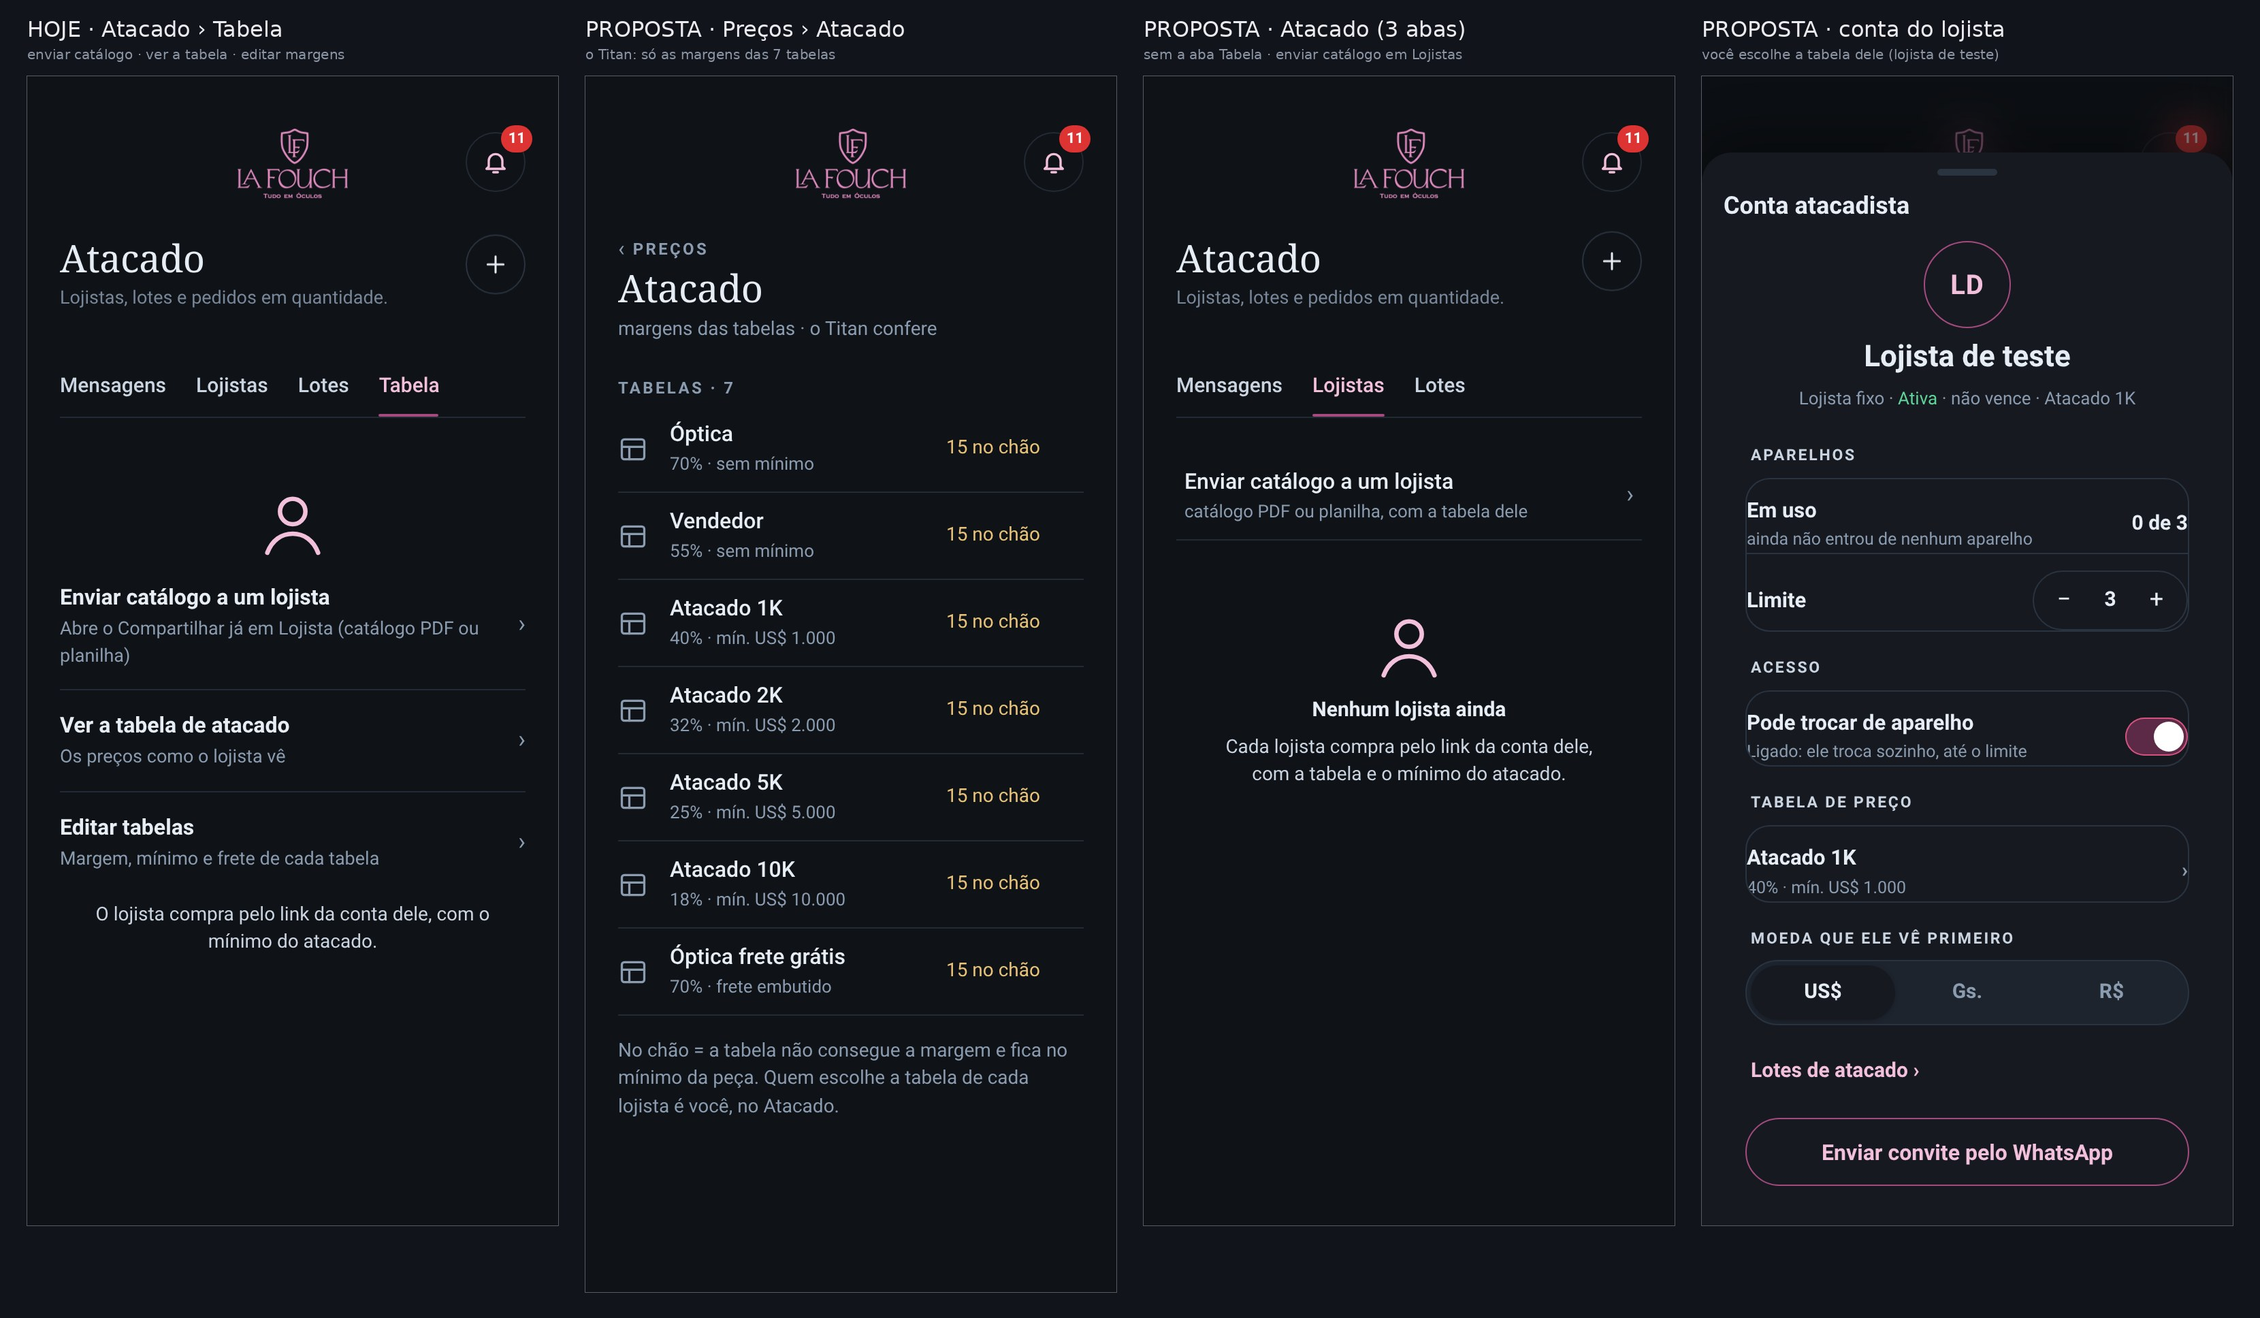
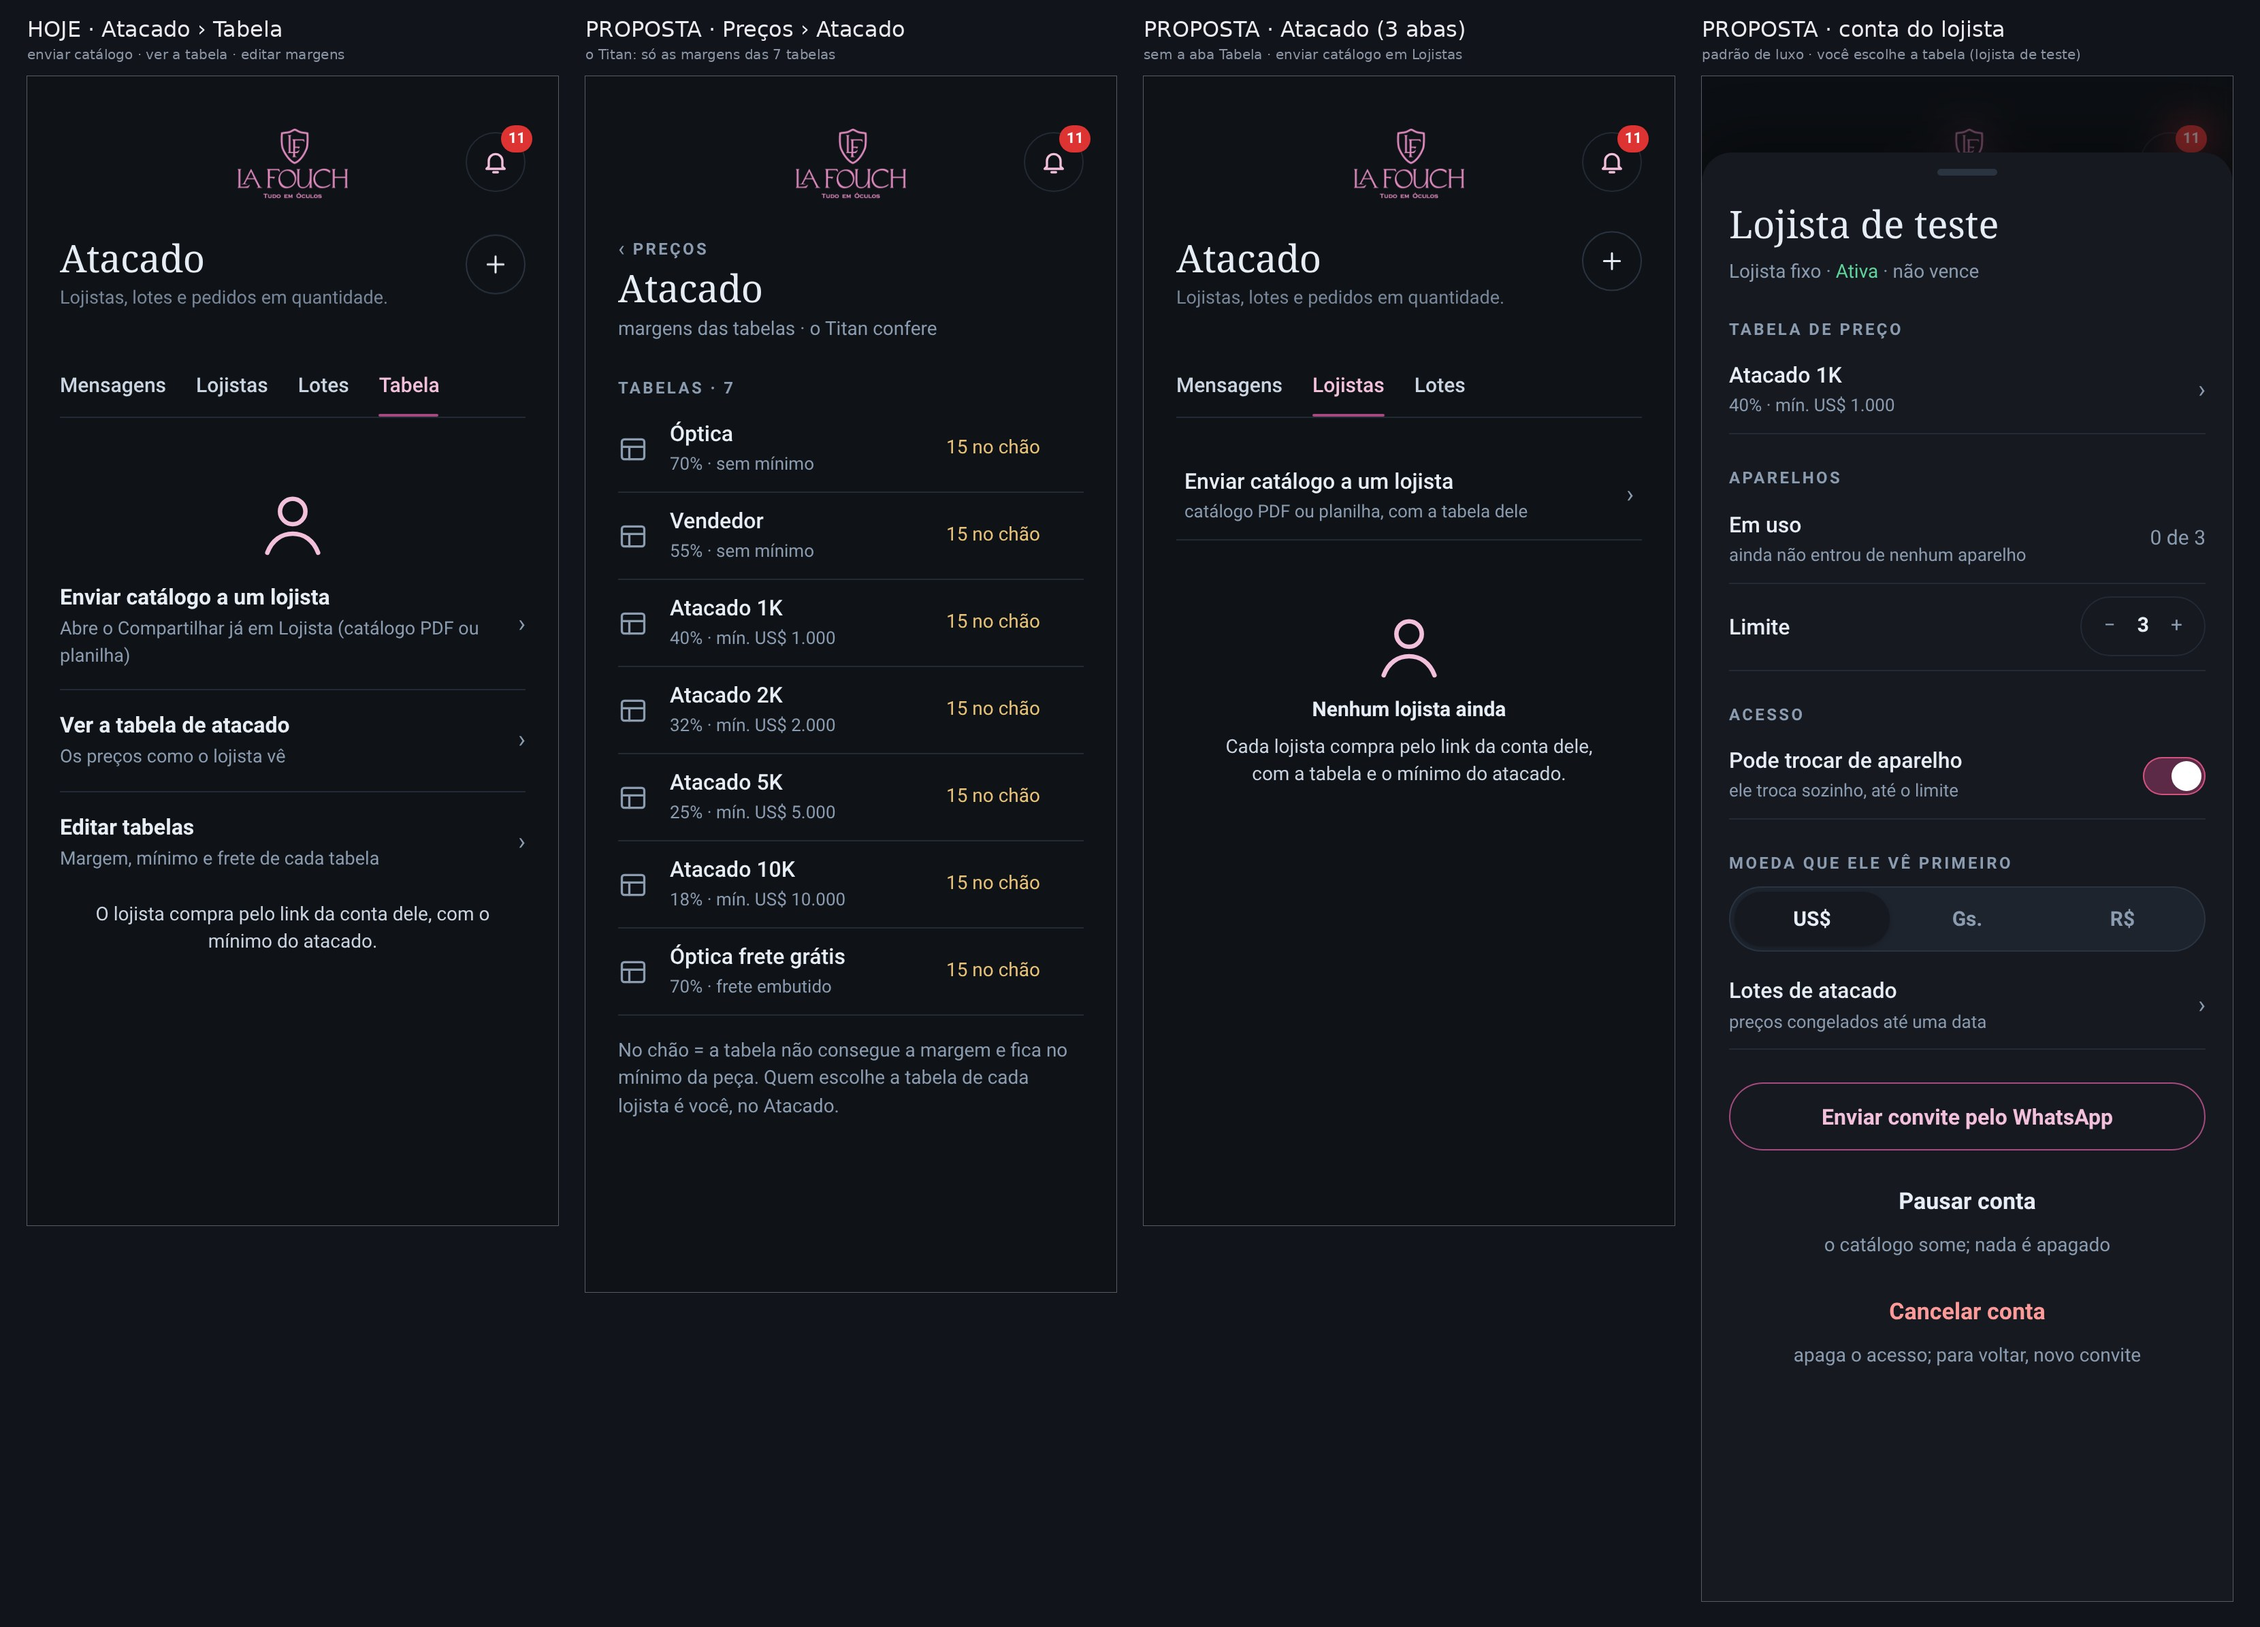
65: conta do lojista no padrão de luxo
Claude-Session: https://claude.ai/code/session_01Vj5GPRt4UBskC3w8v52h7G

diff --git a/work/s435/titan/esboco_65.py b/work/s435/titan/esboco_65.py
@@ -28,16 +28,34 @@ def atacado(pw,conta):
      f();new MutationObserver(f).observe(document.body,{childList:true,subtree:true})}""");w(500)
   if conta:
     pg.click('[data-act=ataLojAbre][data-id=t65]');w(1500)
-    pg.evaluate(r"""()=>{const f=()=>{const lb=[...document.querySelectorAll('.lb77')].find(x=>/^Moeda/.test(x.textContent));if(!lb||document.querySelector('.e65tab'))return;
-       lb.insertAdjacentHTML('beforebegin','<div class="lb77 e65tab">Tabela de preço</div><div class="gp77"><div class="rw77"><span class="tx"><b>Atacado 1K</b><small>40% · mín. US$ 1.000</small></span><span class="vl" style="color:var(--mute)">›</span></div></div>')};
-       f();new MutationObserver(f).observe(document.body,{childList:true,subtree:true})}""");w(500)
+    # conta do lojista no padrão de luxo atual (dono 22/11 13:06): um título (o nome), um eixo à esquerda, linhas finas, sem caixas
+    pg.evaluate(r"""()=>{const box=document.querySelector('.ata77');if(!box)return;const host=box.parentElement;
+      [...document.querySelectorAll('h1,h2,h3,b,div')].filter(x=>x.children.length==0&&x.textContent.trim()==='Conta atacadista').forEach(x=>x.style.display='none');
+      const L=t=>'<div style="font-size:12px;font-weight:700;letter-spacing:.14em;text-transform:uppercase;color:var(--mute);margin:24px 0 4px">'+t+'</div>';
+      const R=(t,s,v)=>'<div style="display:flex;align-items:center;gap:16px;min-height:64px;border-bottom:1px solid var(--line2)"><span style="flex:1;min-width:0"><b style="display:block;font-size:16px;font-weight:500">'+t+'</b>'+(s?'<small style="font-size:13px;color:var(--mute)">'+s+'</small>':'')+'</span>'+v+'</div>';
+      const CH='<i style="font-style:normal;color:var(--mute);font-size:18px">›</i>';
+      const ST='<span style="display:flex;align-items:center;gap:16px;border:1px solid var(--line2);border-radius:22px;height:44px;padding:0 16px"><b style="font-weight:400;color:var(--mute)">−</b><b>3</b><b style="font-weight:400;color:var(--mute)">+</b></span>';
+      host.innerHTML='<div style="padding:0 4px 24px;text-align:left">'+
+        '<h2 style="margin:0;font-family:var(--serif,Georgia,serif);font-weight:400;font-size:28px">Lojista de teste</h2>'+
+        '<div style="color:var(--mute);font-size:14px;margin-top:4px">Lojista fixo · <span style="color:var(--ok,#4fbf7f)">Ativa</span> · não vence</div>'+
+        L('Tabela de preço')+R('Atacado 1K','40% · mín. US$ 1.000',CH)+
+        L('Aparelhos')+R('Em uso','ainda não entrou de nenhum aparelho','<span style="color:var(--mute)">0 de 3</span>')+R('Limite','',ST)+
+        L('Acesso')+R('Pode trocar de aparelho','ele troca sozinho, até o limite','<button type="button" class="nfTg on" role="switch" aria-checked="true"><i></i></button>')+
+        L('Moeda que ele vê primeiro')+'<div class="sg77" style="margin-top:8px"><button type="button" class="on">US$</button><button type="button">Gs.</button><button type="button">R$</button></div>'+
+        '<div style="margin-top:8px">'+R('Lotes de atacado','preços congelados até uma data',CH)+'</div>'+
+        '<button type="button" class="go77" style="margin-top:24px">Enviar convite pelo WhatsApp</button>'+
+        '<div style="text-align:center;margin-top:16px"><button type="button" style="display:block;margin:16px auto 0;background:none;border:0;color:var(--fg);font:600 17px system-ui;min-height:44px;line-height:44px;padding:0 16px">Pausar conta</button><small style="display:block;color:var(--mute);font-size:14px">o catálogo some; nada é apagado</small><button type="button" style="display:block;margin:16px auto 0;background:none;border:0;color:var(--bad,#e5484d);font:600 17px system-ui;min-height:44px;line-height:44px;padding:0 16px">Cancelar conta</button><small style="display:block;color:var(--mute);font-size:14px">apaga o acesso; para voltar, novo convite</small></div></div>'}""");w(500)
   pg.add_style_tag(content='#mainnav,#nvBar{display:none!important}')
-  confere(pg,'Atacado '+('conta' if conta else 'lojistas'));f='/tmp/a65_%d.png'%conta;pg.screenshot(path=f,full_page=not conta);x=Image.open(f).copy();b.close();return x
+  confere(pg,'Atacado '+('conta' if conta else 'lojistas'));f='/tmp/a65_%d.png'%conta
+  if not conta:
+    pg.screenshot(path=f,full_page=True);x=Image.open(f).copy();b.close();return x
+  # a janela inteira cabe: a tela do simulador fica mais alta só nesta foto
+  pg.set_viewport_size({'width':390,'height':1120});w(700);pg.screenshot(path=f);x=Image.open(f).copy();b.close();return x
 if __name__=='__main__':
  with sync_playwright() as pw:
   h=Image.open(O+'h65_tabela.png')
   quadro('esboco_65_atacado_titan.jpg',[('HOJE · Atacado › Tabela','enviar catálogo · ver a tabela · editar margens',h.crop((0,0,780,min(h.height,1688)))),
     ('PROPOSTA · Preços › Atacado','o Titan: só as margens das 7 tabelas',titan(pw)),
     ('PROPOSTA · Atacado (3 abas)','sem a aba Tabela · enviar catálogo em Lojistas',atacado(pw,False)),
-    ('PROPOSTA · conta do lojista','você escolhe a tabela dele (lojista de teste)',atacado(pw,True))])
+    ('PROPOSTA · conta do lojista','padrão de luxo · você escolhe a tabela (lojista de teste)',atacado(pw,True))])
  for n,f in REL: print(n,len(f),f[:4])

diff --git a/docs/FALTA-APROVAR-15-11.md b/docs/FALTA-APROVAR-15-11.md
@@ -1115,3 +1115,4 @@ Não são esquecimento (estavam na lista, parados de propósito ou por ordem do 
 - 22/11 12:59 · DONO quer analisar as vantagens (setor Atacado no Titan × jeito simples) e entender como funciona o atacado. Estudo do código: TABELAS (src/96-tabelas-preco.js) — preço = custo × (1 + margem fixa da tabela) + frete, nunca abaixo do chão (trava + colchão), nunca acima do Público, de 500 em 500; 7 tabelas: Óptica 70% · Vendedor 55% · Atacado 1K 40% (mín. US$ 1.000) · 2K 32% · 5K 25% · 10K 18% · Óptica frete grátis 70% + frete. CONTAS de lojista (97s-atacado-conta.js: associada sem vencer ou convite de 3 dias, 3 aparelhos; o site mostra o catálogo com o preço da tabela + marca d'água). LOTES (97s2: peças ou filtro, contas, preço congelado em US$ até a validade). CAIXA em modo atacado (96-atacado.js: − N +, barra até a próxima tabela). As '15 peças com margem baixa' = a tabela bateu no chão. Comparação em conversa.
 - 22/11 13:01 · DONO decidiu o ATACADO: o Titan trabalha só nas MARGENS das tabelas (setor no escritório); no Atacado o dono só ESCOLHE a tabela de cada atacadista. Leitura: a aba 'Tabela' sai do Atacado (fica Mensagens · Lojistas · Lotes); a conta do lojista (e o lote, que também usa tabela) ganha a linha 'Tabela ›' para escolher. Próximo: esboço 65.
 - 22/11 13:15 · ESBOCO: esboço 65 enviado — ATACADO: (1) Preços › Atacado (setor do Titan): as 7 tabelas com a margem e o mínimo, e o estado de cada uma ('15 no chão' em amarelo = não consegue a margem e fica no mínimo da peça); (2) Atacado com 3 abas (sai 'Tabela'); 'Enviar catálogo a um lojista ›' vai para o começo de Lojistas; 'Ver a tabela' e 'Editar tabelas' vão para o Titan; (3) conta do lojista ganha 'Tabela de preço · Atacado 1K ›' para o dono escolher (hoje o app põe sozinho a 1ª tabela de atacado). Lojista do quadro = de teste.
+- 22/11 13:06 · DONO: a conta do lojista (janela de 17/11, 77d/77e) não está no padrão de luxo atual → 'Sim' para refazer. 65 refeito: conta com UM título (o nome) + 'Lojista fixo · Ativa · não vence', um eixo à esquerda, linhas finas sem caixas: Tabela de preço (Atacado 1K · 40% · mín. US$ 1.000 ›) · Aparelhos (Em uso 0 de 3 · Limite − 3 +) · Acesso (Pode trocar de aparelho) · Moeda (US$ · Gs. · R$) · Lotes de atacado › · 'Enviar convite pelo WhatsApp' · Pausar conta / Cancelar conta (vermelho) com a frase embaixo. Sai o título 'Conta atacadista' e o cabeçalho centralizado.

diff --git a/docs/MEMORIA-PROJETO.md b/docs/MEMORIA-PROJETO.md
@@ -3617,3 +3617,4 @@ Testar TUDO, com muita calma, antes de dizer que está pronto ou de publicar: ca
 - 22/11 12:59 · DONO quer analisar as vantagens (setor Atacado no Titan × jeito simples) e entender como funciona o atacado. Estudo do código: TABELAS (src/96-tabelas-preco.js) — preço = custo × (1 + margem fixa da tabela) + frete, nunca abaixo do chão (trava + colchão), nunca acima do Público, de 500 em 500; 7 tabelas: Óptica 70% · Vendedor 55% · Atacado 1K 40% (mín. US$ 1.000) · 2K 32% · 5K 25% · 10K 18% · Óptica frete grátis 70% + frete. CONTAS de lojista (97s-atacado-conta.js: associada sem vencer ou convite de 3 dias, 3 aparelhos; o site mostra o catálogo com o preço da tabela + marca d'água). LOTES (97s2: peças ou filtro, contas, preço congelado em US$ até a validade). CAIXA em modo atacado (96-atacado.js: − N +, barra até a próxima tabela). As '15 peças com margem baixa' = a tabela bateu no chão. Comparação em conversa.
 - 22/11 13:01 · DONO decidiu o ATACADO: o Titan trabalha só nas MARGENS das tabelas (setor no escritório); no Atacado o dono só ESCOLHE a tabela de cada atacadista. Leitura: a aba 'Tabela' sai do Atacado (fica Mensagens · Lojistas · Lotes); a conta do lojista (e o lote, que também usa tabela) ganha a linha 'Tabela ›' para escolher. Próximo: esboço 65.
 - 22/11 13:15 · ESBOCO: esboço 65 enviado — ATACADO: (1) Preços › Atacado (setor do Titan): as 7 tabelas com a margem e o mínimo, e o estado de cada uma ('15 no chão' em amarelo = não consegue a margem e fica no mínimo da peça); (2) Atacado com 3 abas (sai 'Tabela'); 'Enviar catálogo a um lojista ›' vai para o começo de Lojistas; 'Ver a tabela' e 'Editar tabelas' vão para o Titan; (3) conta do lojista ganha 'Tabela de preço · Atacado 1K ›' para o dono escolher (hoje o app põe sozinho a 1ª tabela de atacado). Lojista do quadro = de teste.
+- 22/11 13:06 · DONO: a conta do lojista (janela de 17/11, 77d/77e) não está no padrão de luxo atual → 'Sim' para refazer. 65 refeito: conta com UM título (o nome) + 'Lojista fixo · Ativa · não vence', um eixo à esquerda, linhas finas sem caixas: Tabela de preço (Atacado 1K · 40% · mín. US$ 1.000 ›) · Aparelhos (Em uso 0 de 3 · Limite − 3 +) · Acesso (Pode trocar de aparelho) · Moeda (US$ · Gs. · R$) · Lotes de atacado › · 'Enviar convite pelo WhatsApp' · Pausar conta / Cancelar conta (vermelho) com a frase embaixo. Sai o título 'Conta atacadista' e o cabeçalho centralizado.
